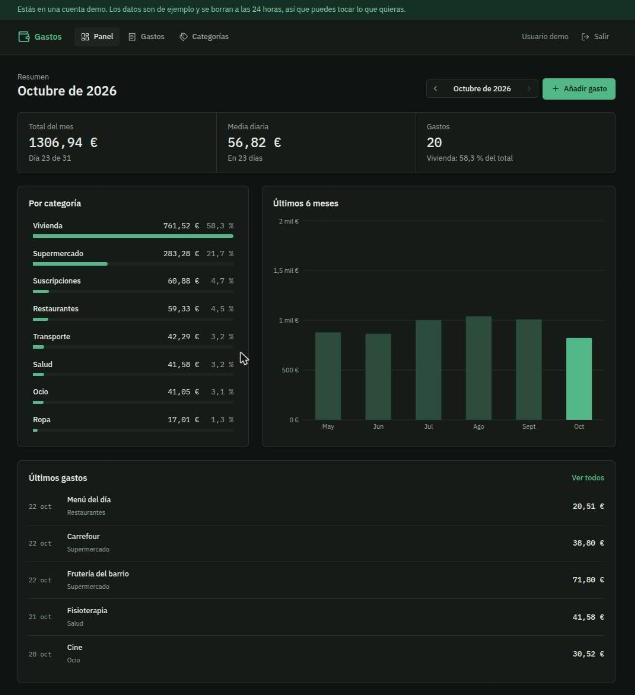
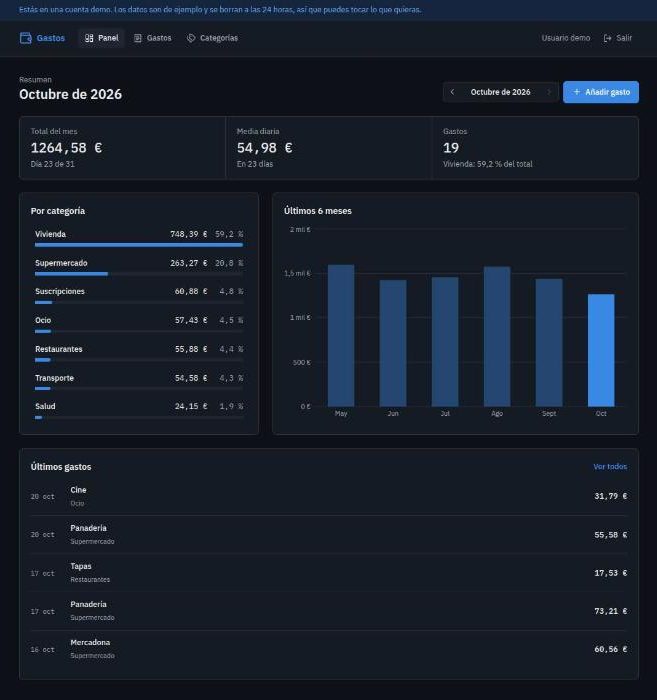
style: keep the original blue accent

diff --git a/src/index.css b/src/index.css
@@ -5,42 +5,42 @@
 
 @custom-variant dark (@media (prefers-color-scheme: dark));
 
-/* Ledger look: cool grey-green paper, dark green ink, amounts in a monospaced face. */
+/* Ledger look: cool grey paper, blue ink, amounts in a monospaced face. */
 :root {
   color-scheme: light;
-  --c-page: #f3f5f2;
+  --c-page: #f6f7f9;
   --c-surface: #ffffff;
-  --c-surface-2: #eaede9;
-  --c-border: #d9ded8;
-  --c-text: #17201b;
-  --c-muted: #5a655e;
-  --c-accent: #1e6b4c;
-  --c-accent-strong: #15523a;
-  --c-accent-soft: #e1eee7;
+  --c-surface-2: #eef1f5;
+  --c-border: #e1e5eb;
+  --c-text: #0f1729;
+  --c-muted: #5b6474;
+  --c-accent: #2a78d6;
+  --c-accent-strong: #1c5cab;
+  --c-accent-soft: #e6f0fc;
   --c-on-accent: #ffffff;
-  --c-danger: #b42d2d;
-  --c-danger-soft: #fbeaea;
-  --c-chart: #1e6b4c;
-  --c-chart-muted: #b5d3c3;
+  --c-danger: #c53030;
+  --c-danger-soft: #fdecec;
+  --c-chart: #2a78d6;
+  --c-chart-muted: #b7d3f6;
 }
 
 @media (prefers-color-scheme: dark) {
   :root {
     color-scheme: dark;
-    --c-page: #0f1311;
-    --c-surface: #161b18;
-    --c-surface-2: #1d2420;
-    --c-border: #2a332e;
-    --c-text: #e4e9e6;
-    --c-muted: #98a49d;
-    --c-accent: #52b788;
-    --c-accent-strong: #84d0aa;
-    --c-accent-soft: #163024;
-    --c-on-accent: #0f1311;
-    --c-danger: #ee7b7b;
+    --c-page: #0d1117;
+    --c-surface: #161b22;
+    --c-surface-2: #1f2630;
+    --c-border: #2b333e;
+    --c-text: #e8ebf0;
+    --c-muted: #9aa4b2;
+    --c-accent: #3987e5;
+    --c-accent-strong: #6da7ec;
+    --c-accent-soft: #15263d;
+    --c-on-accent: #ffffff;
+    --c-danger: #f07171;
     --c-danger-soft: #3a1d1d;
-    --c-chart: #52b788;
-    --c-chart-muted: #2c4d3c;
+    --c-chart: #3987e5;
+    --c-chart-muted: #24466f;
   }
 }
 

diff --git a/src/components/ui.tsx b/src/components/ui.tsx
@@ -9,7 +9,7 @@ const variants: Record<Variant, string> = {
   primary: 'bg-accent text-on-accent hover:bg-accent-strong',
   secondary: 'bg-surface text-text border border-border hover:bg-surface-2',
   ghost: 'text-muted hover:text-text hover:bg-surface-2',
-  danger: 'bg-danger text-on-accent hover:opacity-90',
+  danger: 'bg-danger text-surface hover:opacity-90',
 }
 
 interface ButtonProps extends ButtonHTMLAttributes<HTMLButtonElement> {
